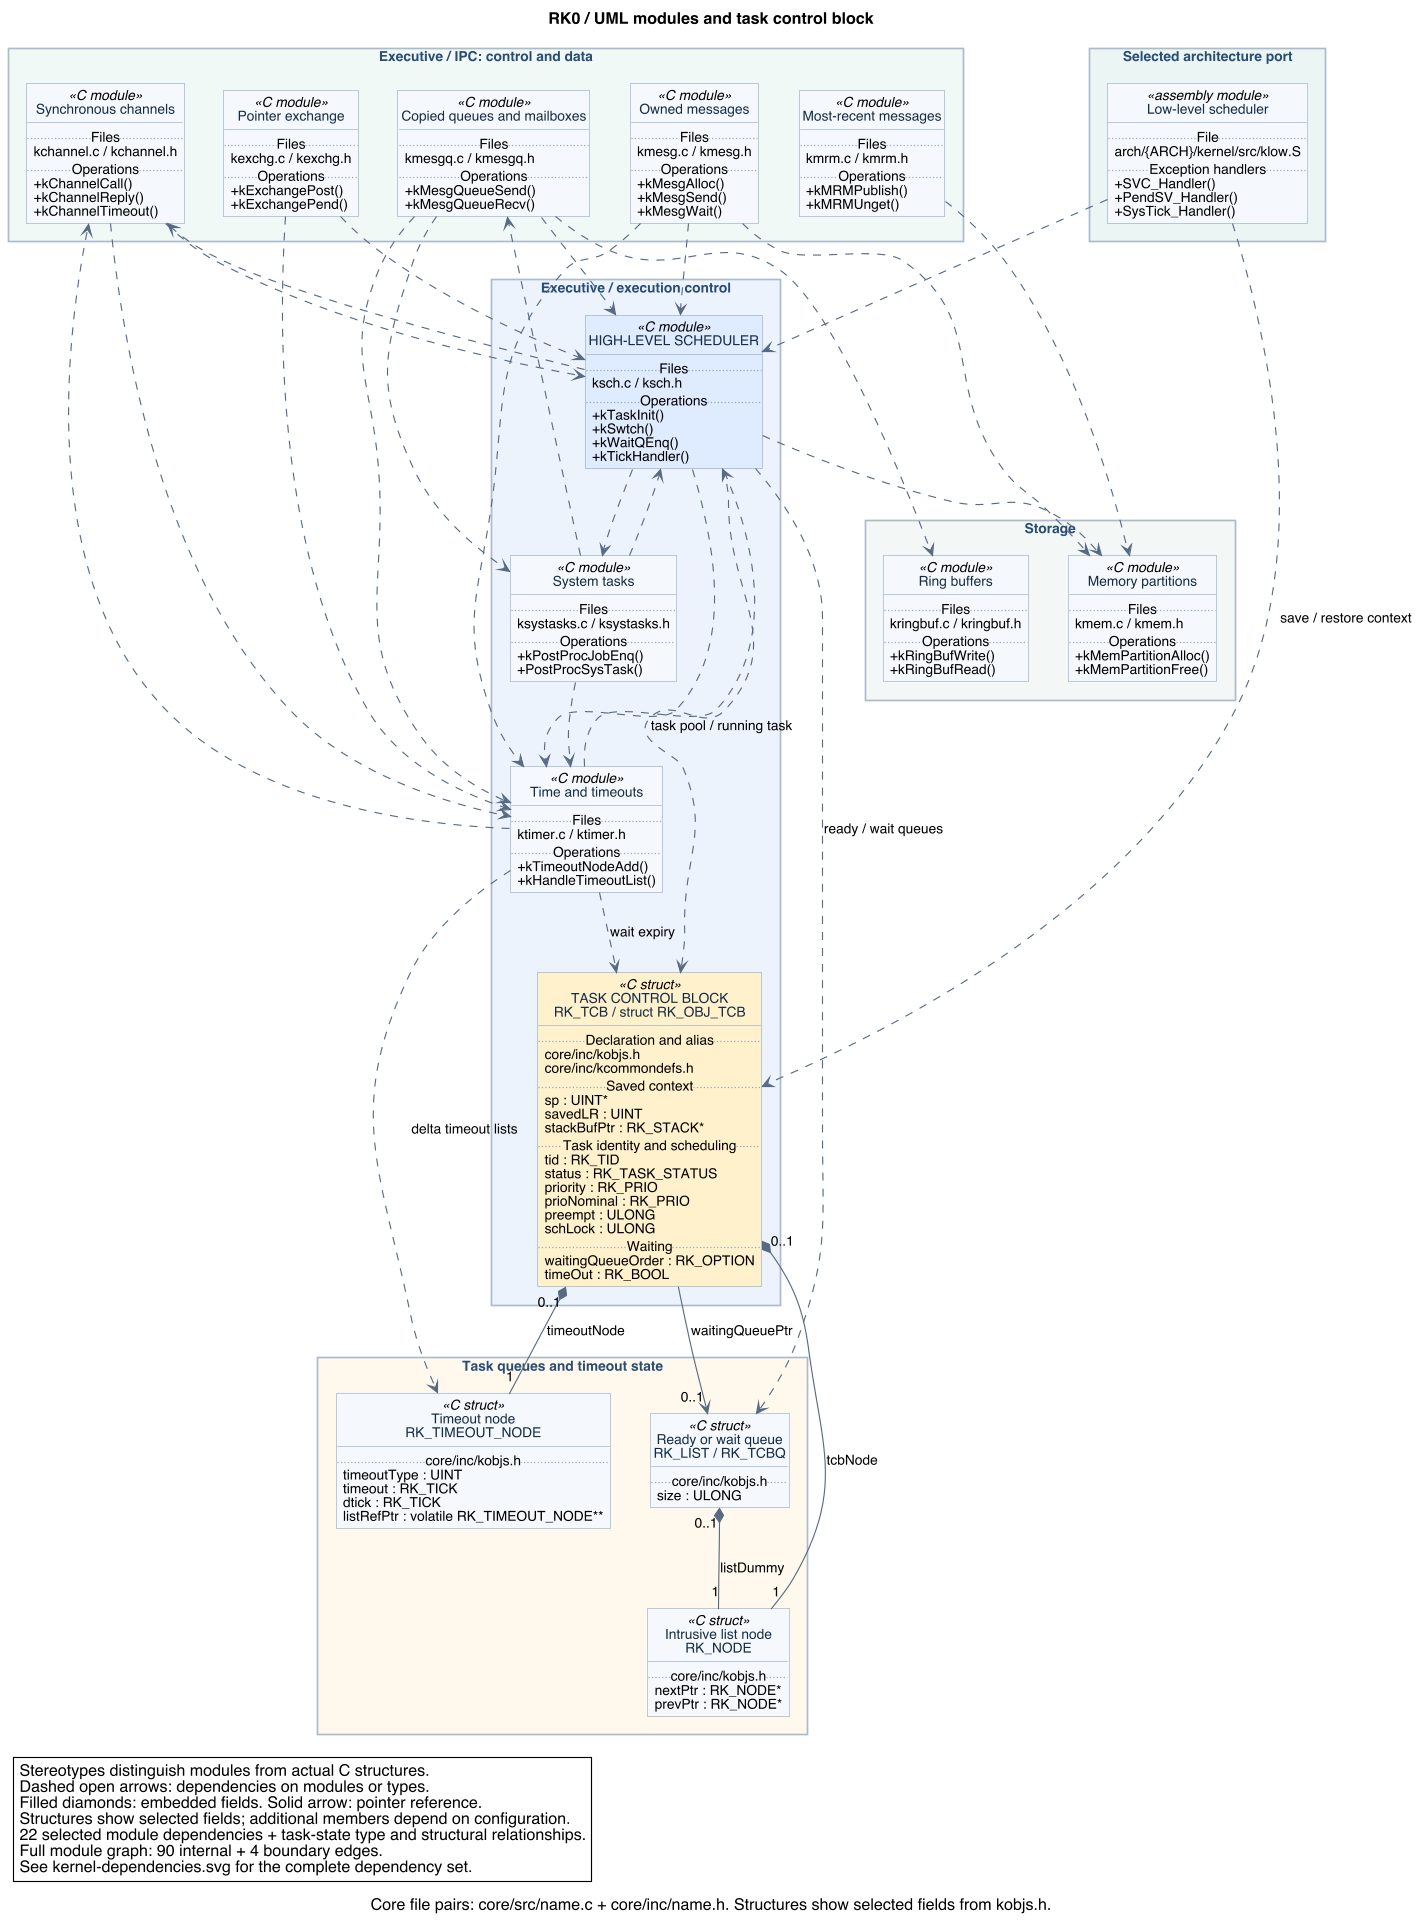
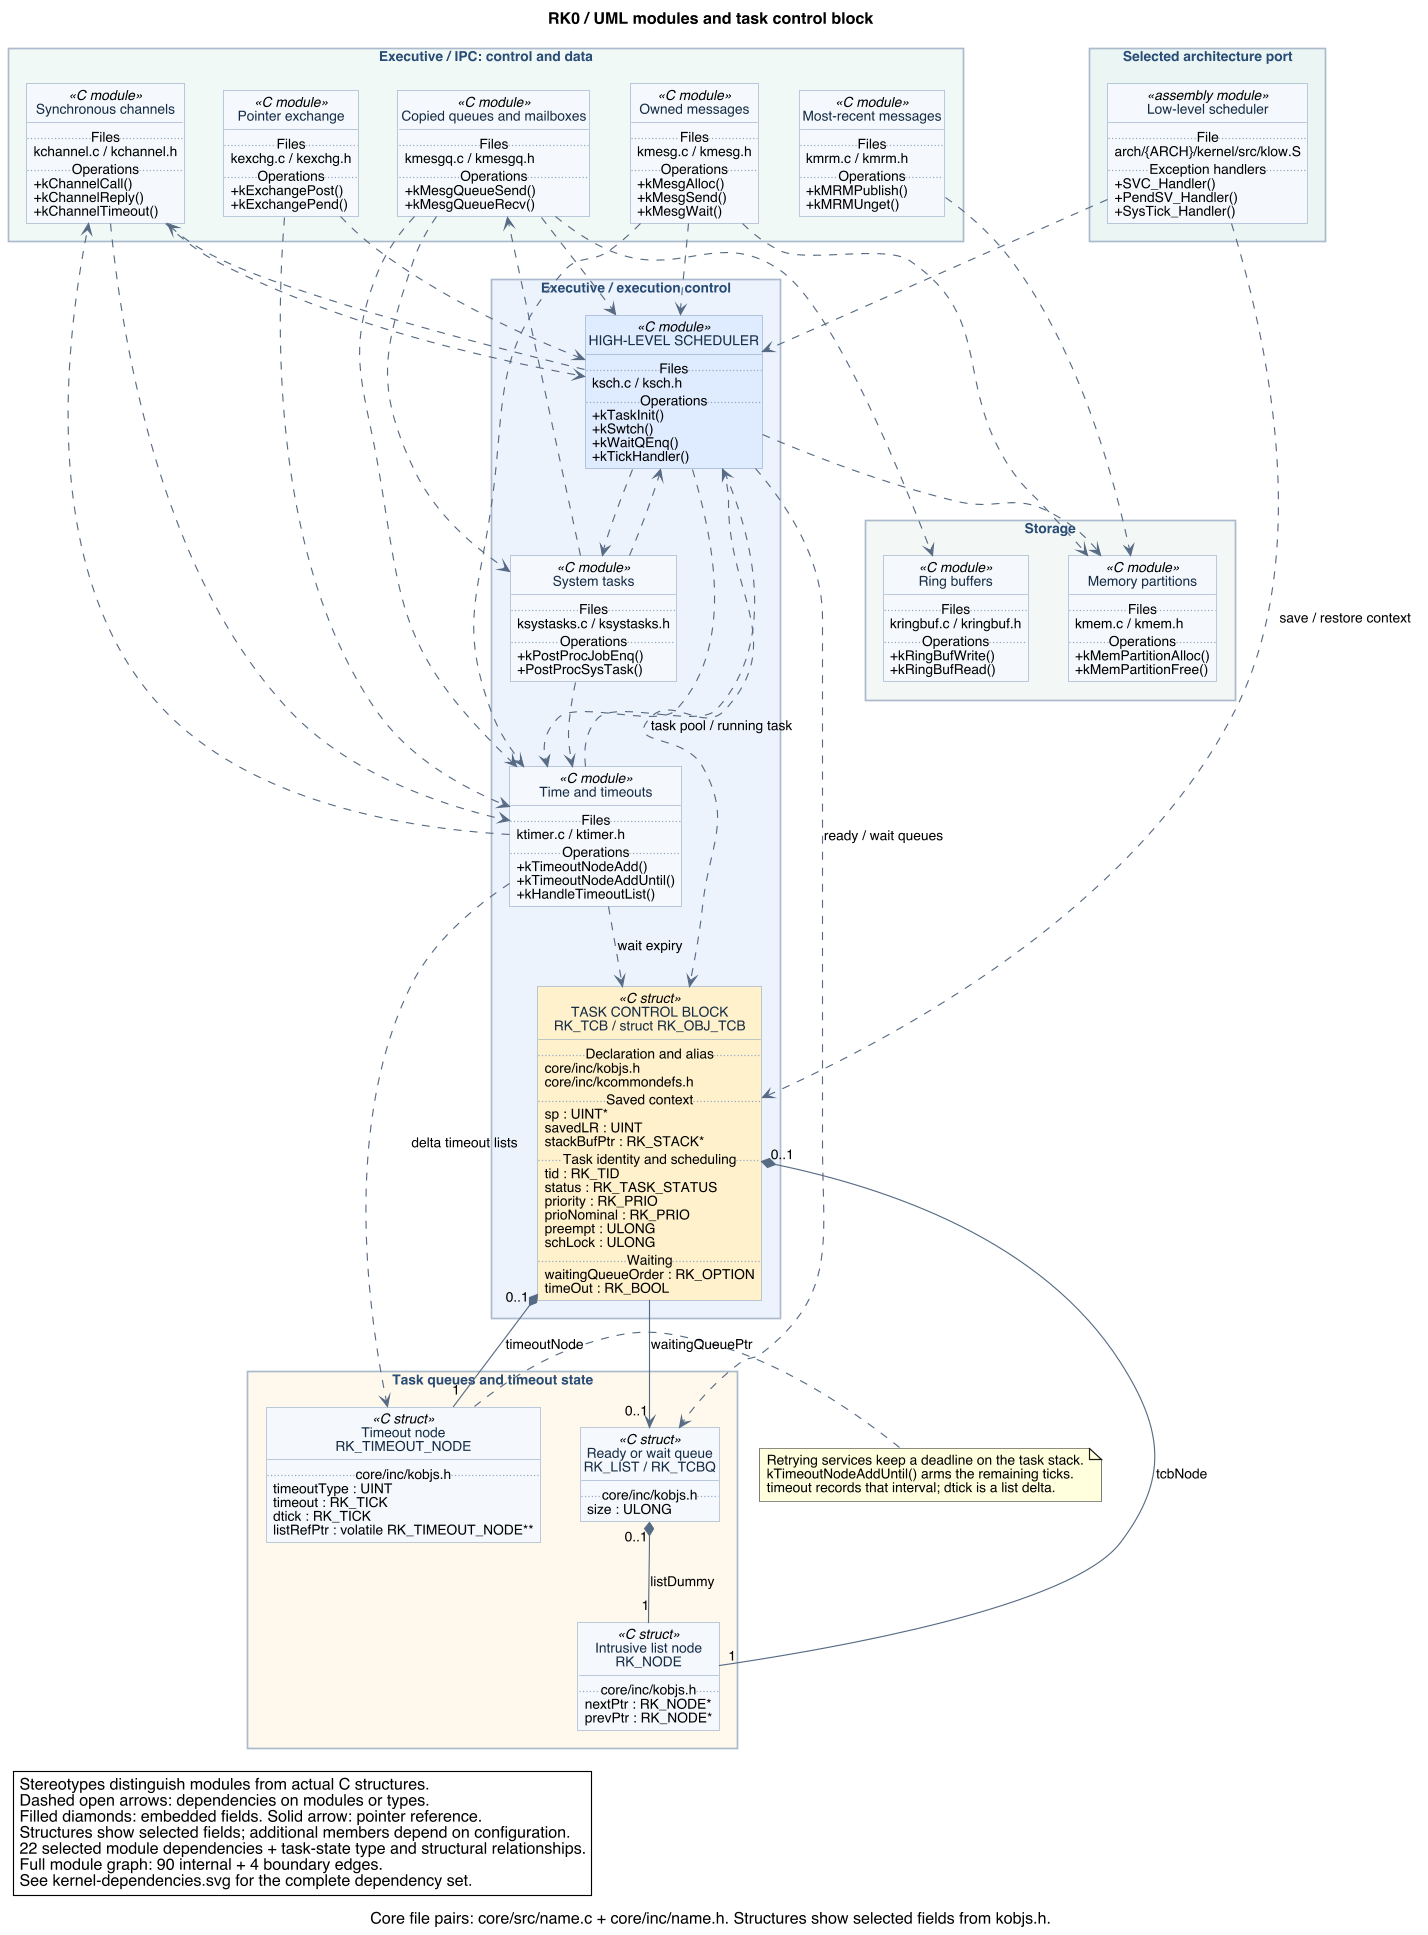
architecture doc

diff --git a/docs/architecture.md b/docs/architecture.md
@@ -6,7 +6,7 @@ and communication. The ARM port implements exception entry, context switching,
 critical sections, and core hardware initialisation. Application tasks call the
 kernel directly through its C API.
 
-This map describes the working tree on 2026-10-26. It covers 22 core C files,
+This map describes RK0 0.90.3, checked on 2026-11-01. It covers 22 core C files,
 27 associated core headers, and both architecture ports. Application files
 appear only where they supply entry points or console hooks.
 
@@ -47,12 +47,81 @@ The executive has three closely connected implementation centres:
 - **`ksch.c`**, the high-level scheduler, owns the ready queues, task pool, effective-priority handling,
   dispatch decisions, and tick handler. It requests PendSV through the port's
   register macros; `klow.S` calls back into `kSwtch()` and `kTickHandler()`.
-- **`ktimer.c`** manages delta timeout lists, sleep primitives, and callout
-  timers. Expiry readies tasks through the scheduler and invokes the mutex or
-  channel cleanup required by the expired wait.
+- **`ktimer.c`** manages delta timeout lists, calculation of remaining wait
+  budgets, sleep primitives, and callout timers. Expiry of task sleeps and waits
+  readies tasks through the scheduler and invokes the mutex or channel cleanup
+  required by the expired wait.
 - **`ksystasks.c`** supplies the idle task and post-processing task. Task events
   wake post-processing to drain deferred work and run timer callbacks in task
   context.
+
+## Timeouts and periodic releases
+
+### One deadline per finite wait
+
+A finite service timeout supplies one tick budget for the operation, including
+internal wake/retry cycles. Services that may retry keep an absolute deadline
+in a local variable on the calling task's stack. For example, `kExchangePost()`,
+the copied queue operations, `kMesgAlloc()`, and `kMesgWait()` calculate
+`deadline = K_TICK_ADD(kTickGet(), timeout)` once. Before each blocking attempt,
+[kTimeoutNodeAddUntil()](../core/src/ktimer.c) computes the remaining ticks and
+passes that relative interval to `kTimeoutNodeAdd()`. An exhausted deadline
+returns `RK_ERR_TIMEOUT` without arming another timer. Channel receive and
+condition-variable waits also calculate their remaining budget before arming.
+
+For a 20-tick budget starting at tick 100, the deadline is tick 120. If a normal
+wake only offers an opportunity to retry and the task next blocks at tick 110,
+it arms 10 ticks. The next blocking attempt keeps the same deadline.
+`RK_NO_WAIT` does not block; `RK_WAIT_FOREVER` waits without arming a timeout.
+
+The deadline policy uses the existing delta-list mechanism. Each TCB embeds
+one `RK_TIMEOUT_NODE`; the deadline itself is held by the service's active
+call. In the node, `timeout` records the most recently armed interval and
+`dtick` records the delta from the preceding node, or from now for the head.
+`listRefPtr` identifies the owning list; a non-NULL value marks an armed node.
+Insertion adjusts neighbouring deltas. Removal transfers the removed node's
+remaining delta to its successor so other expiry times stay unchanged.
+Callers of `kTimeoutNodeAddUntil()` hold a critical section while calculating
+the remaining budget and updating the task's timeout node.
+
+### Expiry, normal wake, and dispatch
+
+The kernel maintains two delta lists with different expiry paths:
+
+| List head | Nodes | Processing |
+| --- | --- | --- |
+| `RK_gTimeOutListHeadPtr` | Task sleeps and bounded waits | SysTick calls `kHandleTimeoutList()`, decrements the head, and expires all zero-delta nodes. |
+| `RK_gTimerListHeadPtr` | Application callout timers | SysTick decrements the head and signals PostProc when it reaches zero; PostProc removes expired nodes, runs callbacks, and reloads periodic timers. |
+
+Task timeout expiry removes the timeout node, detaches an object waiter when
+needed, repairs mutex or channel priority state, and puts the task in a ready
+queue. Expired bounded waits set the TCB's `timeOut` flag; an ordinary sleep
+expiry makes the task ready without setting that flag. Returning the wait
+result remains the responsibility of the suspended service call when it runs
+again.
+
+A normal object wake cancels the armed timeout before the task runs again. A
+wake may commit a delivery or ownership grant, or merely offer an opportunity
+to retry. A grant committed before expiry remains successful even if dispatch
+is delayed past the deadline. A task that must block again uses the remaining
+budget. The timeout does not bound scheduling latency or the mandatory mutex
+reacquisition in `kCondVarWait()`, which uses `RK_WAIT_FOREVER`.
+
+### Tick wrap and sleep policy
+
+`kTickHandler()` advances `globalTick` through its full unsigned range,
+including `RK_TICK_TYPE_MAX`, and increments `nWraps` when the counter rolls to
+zero. Deadline arithmetic uses unsigned addition and signed tick differences.
+Finite waits are limited to `RK_MAX_PERIOD` (`0x7FFFFFFF` ticks), the wrap-safe
+half-range; `RK_WAIT_FOREVER` is a separate token. Retried waits preserve their
+original deadline across rollover.
+
+`kSleepDelay()` provides a relative delay. `kSleepRelease()`, also named
+`kSleepPeriodic()`, keeps a static task aligned to the scheduler-start phase
+grid using its TCB's `wakeTime`. Tasks created with `kTaskSpawn()` are rejected
+with `RK_ERR_INVALID_OBJ`, including when error checking is disabled.
+`kSleepUntil()` uses an application-held local anchor and supports both static
+and dynamic tasks.
 
 ## UML module dependency view
 
@@ -227,10 +296,11 @@ support hooks; it is not the kernel API dispatch layer.
 
 ## Verification and rendering
 
-The file graph was checked with `arm-none-eabi-gcc` object compilation and
-`arm-none-eabi-nm -g` for both Cortex-M0 and Cortex-M3, using GNU99, `-O0`,
-Thumb, soft-float, and the matching QEMU clock/platform definitions. Each port
-was inspected with the default features and with these additional definitions:
+The file graph was rechecked on 2026-11-01 with `arm-none-eabi-gcc` object
+compilation and `arm-none-eabi-nm -g` for both Cortex-M0 and Cortex-M3, using
+GNU99, `-O0`, Thumb, soft-float, and the matching QEMU clock/platform
+definitions. Each port was inspected with the default features and with these
+additional definitions:
 
 ```text
 -DRK_CONF_DYNAMIC_TASK=ON -DRK_CONF_DYNAMIC_OBJECTS=ON -DRK_CONF_TRACE=ON
@@ -241,6 +311,17 @@ collection, so an edge need not survive into every application image. Header
 macros and inlined operations can also depend on a module without producing
 an undefined symbol. Function-pointer targets and the application's override
 of the weak `kApplicationInit()` hook require source inspection.
+
+The timeout review also checked the debug and release QEMU regressions on
+Cortex-M0 and Cortex-M3. They cover fixed budgets across retries, committed
+grants followed by delayed dispatch, and task waits across tick rollover. The
+regression source is [21_timeout_budget.c](../app/examples/21_timeout_budget.c);
+run it with:
+
+```sh
+make PLATFORM=qemu ARCH=armv7m QEMU_BENCH_TIMEOUT=35 run-timeout-budget-regression run-timeout-budget-release-regression
+make PLATFORM=qemu ARCH=armv6m QEMU_BENCH_TIMEOUT=35 run-timeout-budget-regression run-timeout-budget-release-regression
+```
 
 The editable `.dot` files accompany the SVGs. Render them with Graphviz:
 
